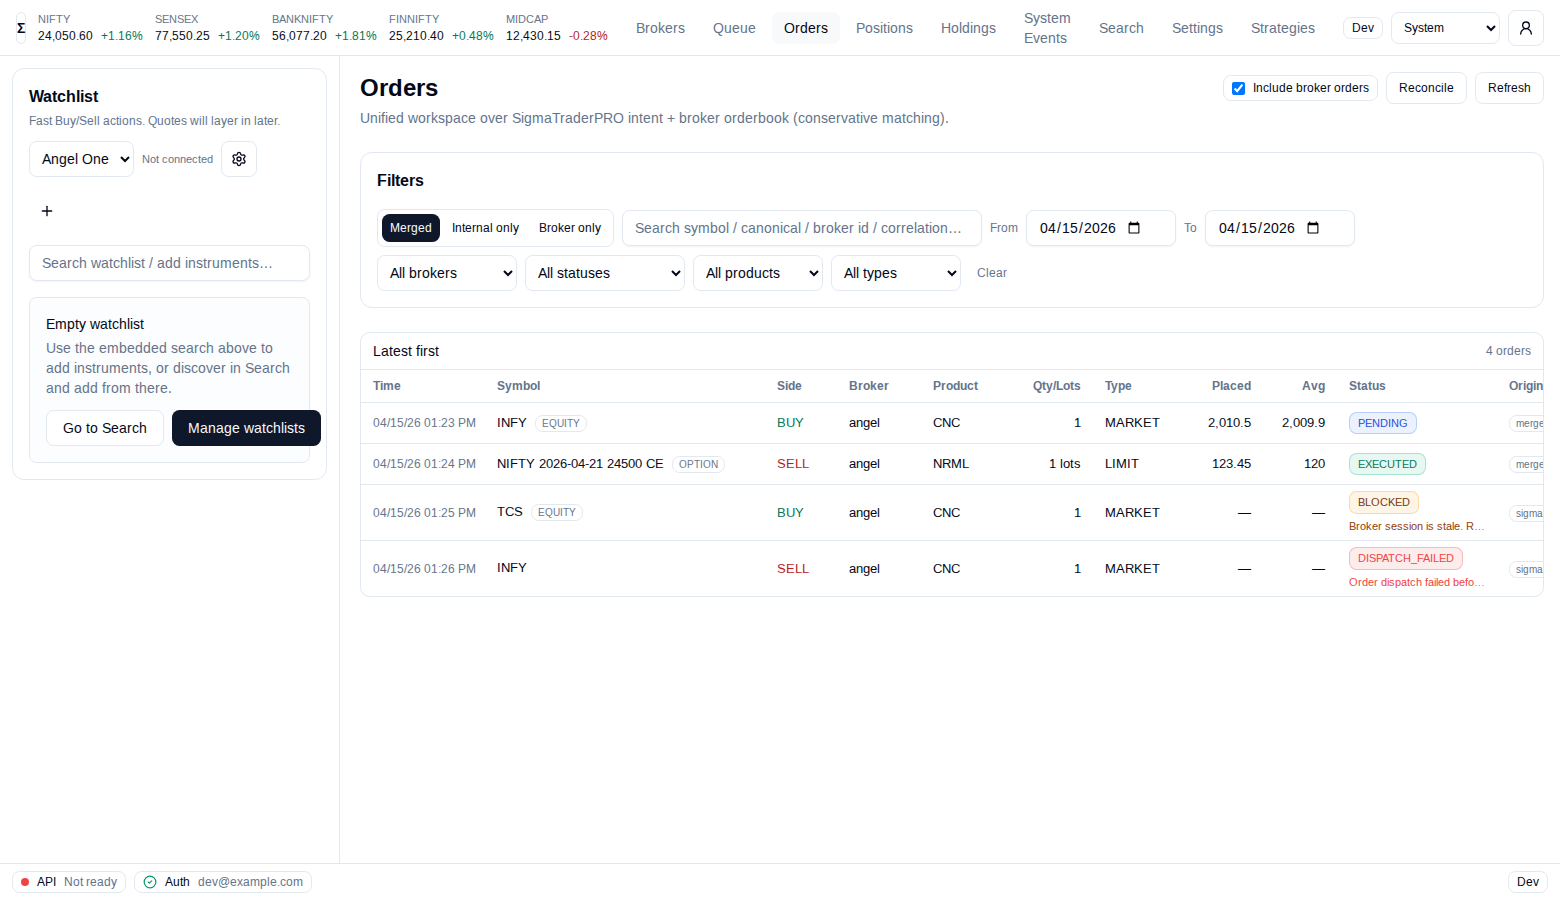
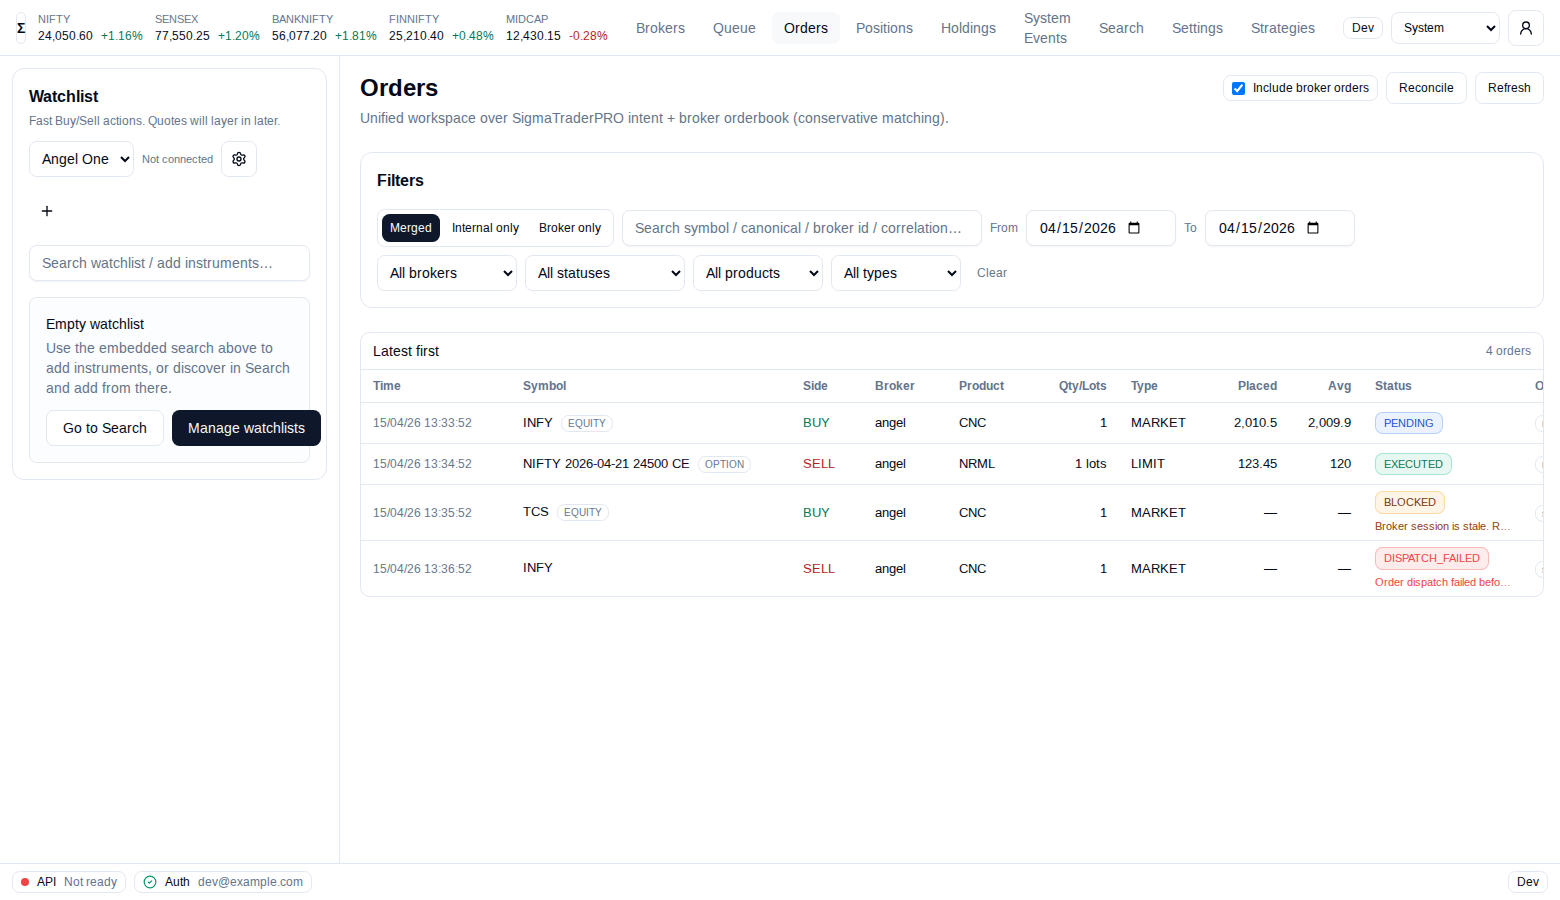
fix: show orders time in IST

diff --git a/apps/frontend/src/pages/OrdersPage.tsx b/apps/frontend/src/pages/OrdersPage.tsx
@@ -84,12 +84,15 @@ function formatPlacedAt(value: string | null): string {
   if (Number.isNaN(d.getTime())) return '—'
   // Compact, single-line, locale-aware timestamp (no seconds).
   return d
-    .toLocaleString(undefined, {
+    .toLocaleString('en-GB', {
+      timeZone: 'Asia/Kolkata',
       year: '2-digit',
       month: '2-digit',
       day: '2-digit',
       hour: '2-digit',
       minute: '2-digit',
+      second: '2-digit',
+      hour12: false,
     })
     .replace(',', '')
 }
@@ -525,7 +528,7 @@ export function OrdersPage() {
           <table className="w-full table-fixed text-[13px]">
             <thead className="text-xs text-muted-foreground">
               <tr className="border-b">
-                <th className="w-[124px] px-3 py-2 text-left">Time</th>
+                <th className="w-[150px] px-3 py-2 text-left">Time</th>
                 <th className="w-[280px] px-3 py-2 text-left">Symbol</th>
                 <th className="w-[72px] px-3 py-2 text-left">Side</th>
                 <th className="w-[84px] px-3 py-2 text-left">Broker</th>

diff --git a/apps/backend/app/brokers/angel_adapter.py b/apps/backend/app/brokers/angel_adapter.py
@@ -21,7 +21,7 @@ from app.brokers.types import BrokerKey, BrokerSessionState, BrokerStatus
 from app.core.config import settings
 from app.core.crypto import CryptoError, decrypt_json, encrypt_json
 from app.core.logger import get_logger, log_event
-from app.core.time import today_ist
+from app.core.time import IST, today_ist
 from app.models.broker_connection import BrokerConnection
 from app.models.user import User
 from app.orders.types import (
@@ -73,7 +73,10 @@ def _parse_order_timestamp(ts: object) -> datetime | None:
         fixed = s.replace("Z", "+00:00")
         if " " in fixed and "T" not in fixed:
             fixed = fixed.replace(" ", "T", 1)
-        return datetime.fromisoformat(fixed)
+        dt = datetime.fromisoformat(fixed)
+        if dt.tzinfo is None:
+            dt = dt.replace(tzinfo=IST).astimezone(UTC)
+        return dt
     except Exception:
         pass
 
@@ -91,7 +94,8 @@ def _parse_order_timestamp(ts: object) -> datetime | None:
         "%d %b %Y %H:%M",
     ):
         try:
-            return datetime.strptime(s, fmt)
+            dt = datetime.strptime(s, fmt)
+            return dt.replace(tzinfo=IST).astimezone(UTC)
         except Exception:
             continue
 

diff --git a/apps/backend/app/brokers/zerodha_adapter.py b/apps/backend/app/brokers/zerodha_adapter.py
@@ -24,7 +24,7 @@ from app.brokers.zerodha_client import (
 from app.core.config import settings
 from app.core.crypto import CryptoError, decrypt_json, encrypt_json
 from app.core.logger import get_logger, log_event
-from app.core.time import today_ist
+from app.core.time import IST, today_ist
 from app.models.broker_connection import BrokerConnection
 from app.models.user import User
 from app.orders.types import (
@@ -469,6 +469,10 @@ class ZerodhaAdapter(BrokerAdapter):
                     if " " in s and "T" not in s:
                         s = s.replace(" ", "T", 1)
                     placed_at = datetime.fromisoformat(s)
+                    # Zerodha timestamps are generally in IST but often arrive without an explicit offset.
+                    # Interpret naive datetimes as IST and normalize to UTC for storage/transport.
+                    if placed_at.tzinfo is None:
+                        placed_at = placed_at.replace(tzinfo=IST).astimezone(UTC)
                 except Exception:
                     placed_at = None
 
